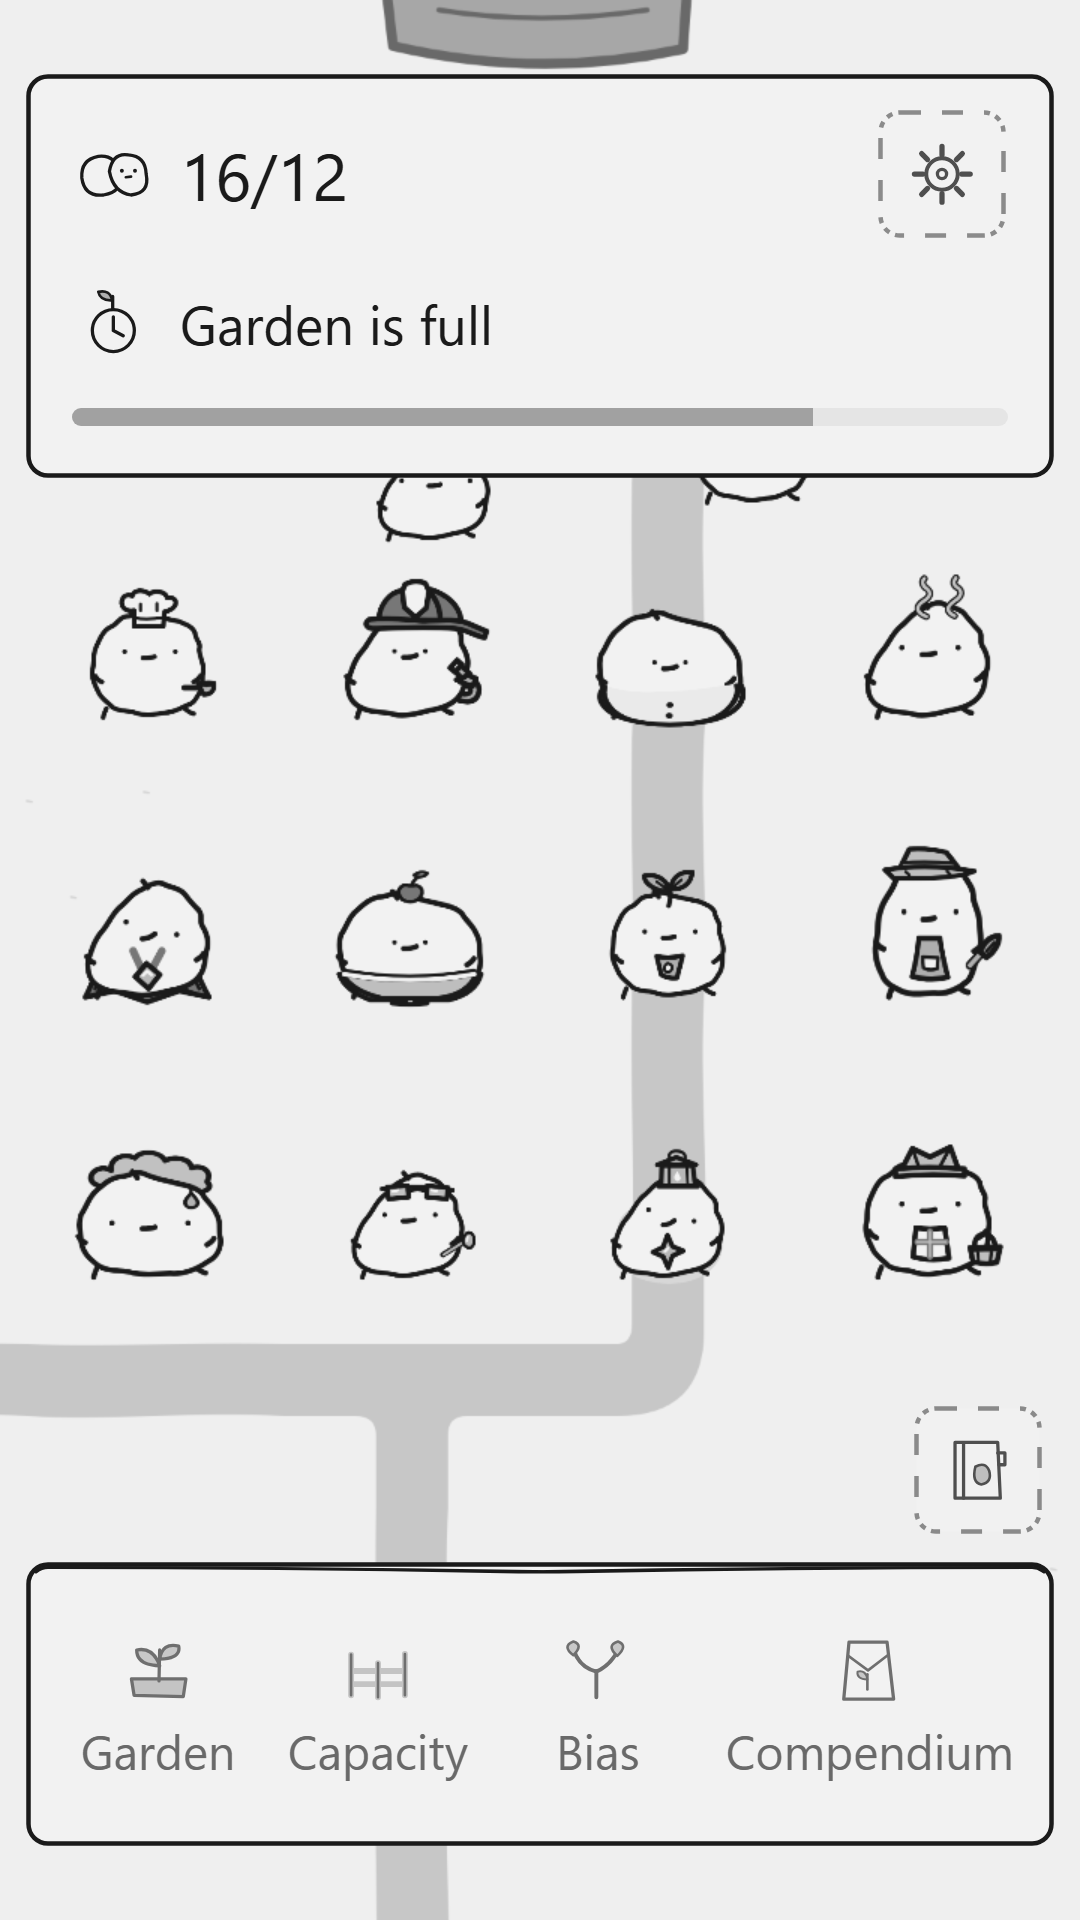
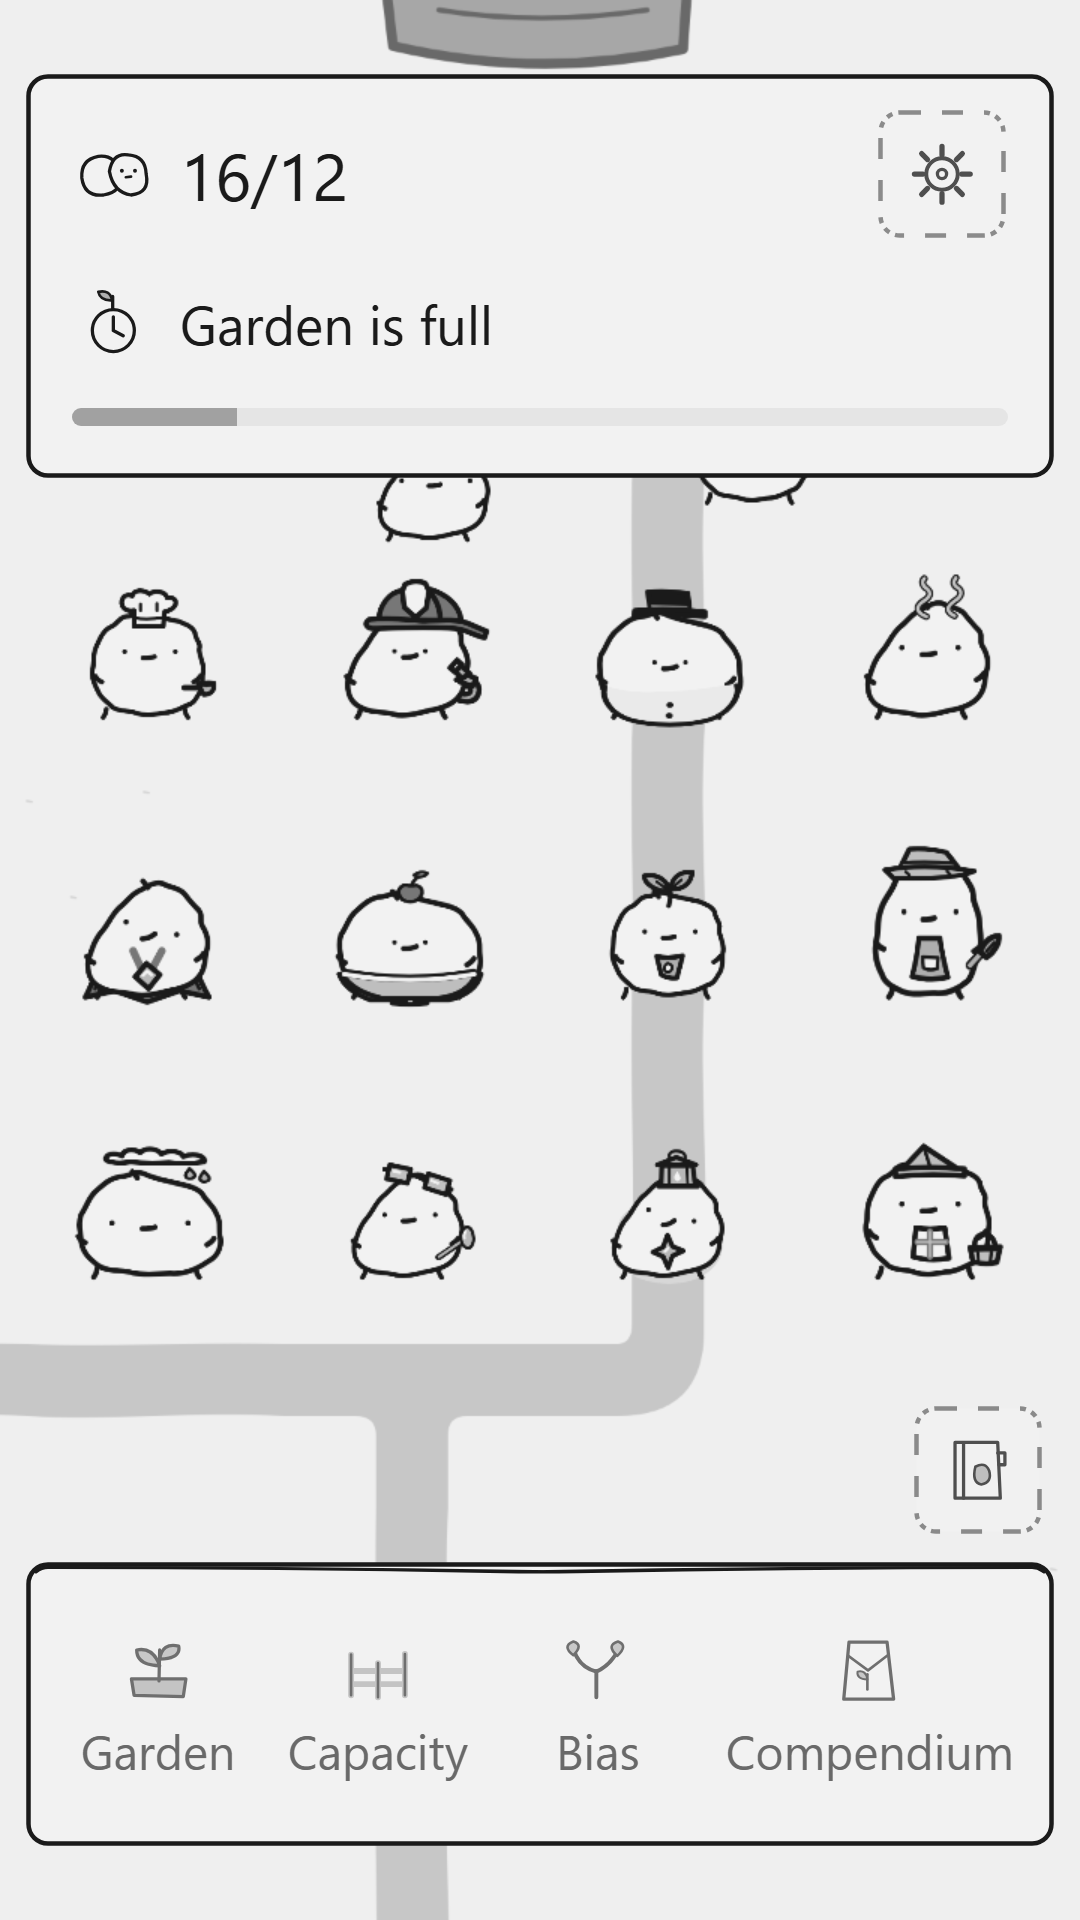
ASSET-PLAYABLE part A round 2: Snowman top hat, floating Raincloud, Picnic and Glassblower fixes
Answers Claude's PR #21 review: Snowman gets a coal-black top hat (its
rear component now follows head_top); Raincloud is a lighter cloud
floating above the head with rain falling from it; Picnic's hat has one
peak; Glassblower's goggles sit higher on a diagonal with a larger pipe
and bulb. Allocation and lifetime bounds unchanged.

diff --git a/docs/ASSETS.md b/docs/ASSETS.md
@@ -28,16 +28,16 @@ The component names in this table are filename part suffixes. `head` attaches to
 | snow / Snow Kid | 1 / spawn | Knitted beanie and trailing scarf, icy blue | none | beanie (head), scarf (torso) | final: larger pom, tall crown, ribbed cuff and short scarf fringe |
 | chef / Chef Kid | 2 / R2 | Cook-reference hat and small pan | none | hat (head), pan (hand) | final: puffed toque, cuff folds, cupped pan |
 | firefighter / Firefighter Kid | 2 / R1 | Red raised-shield helmet, compact hose/nozzle | hose | helmet (head), nozzle (hand) | final: approved costume; nozzle drawing 6 px right for seated Wide/Bean clearance |
-| snowman / Snowman Kid | 2 / R3 | Rounded lower snow suit, tiny coal buttons | snowball | buttons + lower snow suit (torso, one existing slot) | final: bulbous snow silhouette, no dark plate-like upper rim; face visible |
+| snowman / Snowman Kid | 2 / R3 | Coal-black top hat, pale lower snow suit and coal buttons | top hat (head; legacy `back_snowball` ID) | buttons + lower snow suit (torso, one existing slot) | final, round 2: visible brim above the crown distinguishes it from Sundae in grayscale; no nose |
 | steam / Steam Kid | 2 / R4 | Two pale curling vapour strokes | none | vapour (head) | final: unequal curls with ink border; distinct from hood/FX |
 | hero / Hero Kid | 3 / R5 | Short cape, oversized rescue medal | cape | medal (torso) | final: flared cape, broad ribbon, diamond medal |
 | sundae / Sundae Kid | 3 / R6 | Shallow dessert bowl, cherry | bowl | cherry (head), rim + cup/foot (torso, one existing slot) | final: visible curved bowl/short foot, cream lip, outlined cherry |
 | sprout / Sprout Kid | 2 / R7, proposed | Unequal leaf pair and tiny seed bib | none | leaves (head), bib (torso) | final: asymmetric leaves, seed emblem on bib |
 | gardener / Gardener Kid | 3 / R8, proposed | Crooked straw hat, apron, small trowel | none | hat (head), apron (torso), trowel (hand) | final: hatband/straw ticks, pocket apron, pointed trowel |
-| raincloud / Raincloud Kid | 3 / R9, proposed | Low scalloped cloud, one dangling raindrop | cloud | drop (head) | final: broad unequal lobes, distinct dangling drop; no rain particle field |
-| glassblower / Glassblower Kid | 3 / R10, proposed | Tilted safety goggles above eyes, blowpipe with amber bulb | none | goggles (head), pipe (hand) | final: lens rims/highlights, ink-edged pipe and bulb; alpha clearance checked |
+| raincloud / Raincloud Kid | 3 / R9, proposed | White scalloped cloud floating above the head, two falling drops | cloud | drops (head, existing `front_drop` slot) | final, round 2: cloud/body gap; both drops above and clear of body/face; no rain particle field |
+| glassblower / Glassblower Kid | 3 / R10, proposed | Diagonal safety goggles pushed onto crown, blowpipe with larger amber bulb | none | goggles (head), pipe (hand) | final, round 2: raised tilted lenses, longer pipe and taller bulb within existing hand reserve; alpha clearance checked |
 | lantern / Lantern Kid | 4 / R11, proposed | Small amber lantern cap, star apron, glow behind | glow | cap (head), star (torso) | final: loop/roof/frame/flame cap, four-point star, flat glow within boundsPx |
-| picnic / Picnic Kid | 4 / R12, proposed | Folded picnic hat, gingham bib, tiny basket | none | hat (head), bib (torso), basket (hand) | final: folded cap/cuff, broad gingham cross, handle/rim/weave ticks |
+| picnic / Picnic Kid | 4 / R12, proposed | Single-peak folded picnic hat, gingham bib, tiny basket | none | hat (head), bib (torso), basket (hand) | final, round 2: off-centre paper fold replaces two ear-like peaks; cuff, bib and basket retained |
 
 Totals: 16 types, 7 back components, 26 front components. Worst costume uses five sprites including body/face (Firefighter, Sundae, Gardener, Lantern or Picnic). Plain uses only body+face. Body/face/pose variation adds no per-type textures. Accent palettes follow themes but silhouette identifies type without hue.
 
@@ -64,7 +64,7 @@ Every result tier strictly exceeds both parents; all parents/results are constru
 
 ## Part A placeholder replacement owned by ChatGPT
 
-ASSET-PLAYABLE Part A replaces the editable SVG costume sources in place for **all 12 former placeholder types**: snow, chef, snowman, steam, hero, sundae, sprout, gardener, raincloud, glassblower, lantern, picnic. The exact allocation is retained (22 front +5 back for these 12), with all costume/component statuses `final`. Plain/Fire/Water/Firefighter also become `final` following the owner's style approval, D-045 audit and fit checks. Snowman's buttons file now contains the front of the lower snow suit too; Sundae's rim file contains the visible lip/cup/foot. This fixes back-layer occlusion without changing a component split, filename, pivot, fit, layer or boundsPx. Reuse delivered body/face/rig; no flattened per-type PNG. Claude reviews the final drawings before merge.
+ASSET-PLAYABLE Part A replaces the editable SVG costume sources in place for **all 12 former placeholder types**: snow, chef, snowman, steam, hero, sundae, sprout, gardener, raincloud, glassblower, lantern, picnic. The exact allocation is retained (22 front +5 back for these 12), with all costume/component statuses `final`. Plain/Fire/Water/Firefighter also become `final` following the owner's style approval, D-045 audit and fit checks. Snowman's buttons file contains the visible lower snow suit; Sundae's rim file contains the lip/cup/foot. Round 2 reuses Snowman's rear `kid_snowman_back_snowball` ID for a top hat: its follower changes from torso to head_top, pivot from [128,166] to [128,55], and fits to the established headwear fits. This justified exception prevents a seated torso transform from sinking/compressing the hat behind the head. All other followers/pivots/fits, every layer, filename, allocation, frame/clip/lifetime boundsPx and motion field remain unchanged. Reuse delivered body/face/rig; no flattened per-type PNG. Claude reviews the final drawings before merge.
 
 Future placeholders use minimal hand-authored SVGs: one clear silhouette per hat/prop, flat accent, same ink/fill, no baked text, same pivots/fit/boundsPx and dimensions as final components. Deliver under normal filenames with sidecar `status: placeholder`; replace sources in place when ready. Production PNG allocation is the same slot, not a second retained placeholder texture. Preserve source history in git/provenance. `placeholder`, `style_sample`, `final` remain explicit per-costume statuses. Part A's completion does not deliver Part B's deferred poses/clips/FX/landmarks/font. The rig retains its root slice markers and all deferred fields; individual completed sources are final.
 

diff --git a/docs/ART_AUDIO_PLAN.md b/docs/ART_AUDIO_PLAN.md
@@ -144,7 +144,7 @@ Manual review still judges reference character, bigger Fire, face readability, c
 
 ## Delivery and gates
 
-Claude accepted technical fit, including his silhouette-box revision; the owner approved gate 2 on 2026-10-02 (D-044 handoff). ASSET-PLAYABLE Part A replaces the 27 placeholder components in place, removes Dreamy's extra strokes and promotes delivered Plain/Fire/Water/Firefighter/body/face sources to final. No component allocations, pivots, fits, bounds or clips changed. Snowman's front buttons slot now also draws the visible lower snow suit; Sundae's front rim slot draws the lip/cup/foot so the back artwork is not hidden by the body. Firefighter's nozzle artwork moves 6 source px right inside its existing slot to clear seated Wide on Bean. See `.codex-out/asset-playable-a-notes.md` for checks and scale concerns. Part B's poses, event clips, FX, landmarks and bundled font remain untouched. The rig's root `style_sample` / `sample_slice` delivery markers remain historical scope markers; completed body/frame/face/costume/component statuses are `final`. Claude reviews Part A and renders true game-size captures before merge. Gate 3 remains first playable on the owner's phone; gate 4 remains MVP before extra content. Preserve provenance for every source/export, references/tool/version/licence/revision.
+Claude accepted technical fit, including his silhouette-box revision; the owner approved gate 2 on 2026-10-02 (D-044 handoff). ASSET-PLAYABLE Part A replaces the 27 placeholder components in place, removes Dreamy's extra strokes and promotes delivered Plain/Fire/Water/Firefighter/body/face sources to final. Round 2 addresses Claude's four art review points: Snowman gains a coal-black top hat, Raincloud a separated white cloud with rain above the face, Picnic one paper peak, and Glassblower raised diagonal goggles and a larger hand prop. Snowman's existing rear component now carries the hat and follows head_top at [128,55] with the established headwear fits, so it survives sitting without torso compression/occlusion. This is the only attachment/pivot/fit exception; allocation, layer order, filenames, all bounds and clips stay unchanged. Snowman's front buttons slot still draws the lower snow suit; Sundae's front rim slot draws the lip/cup/foot. Firefighter's nozzle artwork retains its 6 source px shift to clear seated Wide on Bean. See `.codex-out/asset-playable-a-notes.md` for checks, game-size/grayscale judgments and scale concerns. Part B's poses, event clips, FX, landmarks and bundled font remain untouched. The rig's root `style_sample` / `sample_slice` delivery markers remain historical scope markers; completed body/frame/face/costume/component statuses are `final`. Claude reviews Part A before merge. Gate 3 remains first playable on the owner's phone; gate 4 remains MVP before extra content. Preserve provenance for every source/export, references/tool/version/licence/revision.
 
 ## Audio production and handoff
 

diff --git a/assets/PROVENANCE.md b/assets/PROVENANCE.md
@@ -2,6 +2,12 @@
 
 ## Current kid art: ASSET-PLAYABLE Part A (2026-10-02)
 
+Current rig revision **asset-playable-a-2**, ChatGPT/Codex, Part A round 2. Six original SVG sources supersede their round-1 drawings: `kid_snowman_back_snowball` (legacy ID now carries the rear top hat), `kid_raincloud_back_cloud`, `kid_raincloud_front_drop`, `kid_picnic_front_hat`, `kid_glassblower_front_goggles`, `kid_glassblower_front_pipe`. Tools: hand-authored SVG paths/JSON through `.codex-out/author-asset-playable-a-round2.mjs`, Node.js; licence: original work for Potato Kid. Inspected all 22 references in the contact sheet and Claude's e953dc8 colour/grayscale/crowd engine captures before editing. No image generation, tracing, external images or baked text. Source dimensions/statuses/allocation stay the same. Snowman's rear component alone changes attachment/pivot/fits to existing headwear values, justified by seated hat occlusion; all lifetime boxes and motion remain unchanged. The front snow suit retains round-1 artwork. Other delivered sources retain their individual earlier revisions.
+
+The current inventory preserves pre-Part-A hashes and records `round1Sha256` for these six changed sources alongside their current hashes. Runtime PNGs/sidecar and real-engine review captures under `art/previews/ingame/` are regenerated for round 2. Independent alpha/vector evidence and game-size colour/grayscale/stand/seated scratch sheets are regenerated under `.codex-out/`. Claude's critical review and physical-device acceptance remain pending. See the appended Round 2 section in `.codex-out/asset-playable-a-notes.md`.
+
+### Part A round 1 record
+
 Revision **asset-playable-a-1**, author ChatGPT/Codex in the project ChatGPT role. Original hand-authored SVG/JSON, written with Node.js using `.codex-out/author-asset-playable-a.mjs`; no image generation, external artwork, fonts, tracing or embedded reference images. Licence: original work for Potato Kid. Inspected all 22 supplied references through `.codex-out/reference-contact-sheet.png` and the approved engine sample sheets. Plain/cook/snow references inform the same sparse face, costume language and outline; all new details are original.
 
 This entry supersedes the maturity labels in the historical inventories below **only for the 61 delivered v2 kid SVGs**: 16 existing body poses, 12 face states and 33 costume components. These are `final` in the authored sidecar, pending Claude's review. Historical r2 sources and map/UI are not promoted. The root rig retains its slice marker and explicit deferred fields; Part B is not delivered.

diff --git a/docs/DECISIONS.md b/docs/DECISIONS.md
@@ -59,6 +59,10 @@ Owner gate-2 direction D-036..D-042 is preserved in `.codex-out/decisions-gate2.
 | --- | --- | --- | --- |
 | D-043 | Agreed (Claude + ChatGPT) | Kids reserve a lifetime axis-aligned silhouette box in absolute source-canvas `boundsPx`; clips declare `boundsPxByBody`. Contact uses box gap with interval overlap on the other axis. Scenery retains ground reserve circles plus authored silhouette boxes. No-overlap applies during interpolation and dragging as well as simulation. | Claude counterproposal in `.codex-out/claude-v2-spec-review.md`, accepted in `.codex-out/v2-review-response.md`; avoids excessive circle spacing while containing the full visible rig. Garden roof needs its own silhouette envelope above the ground circle. |
 
+## ASSET-PLAYABLE Part A round 2 art revision (ChatGPT, 2026-10-02; Claude review pending)
+
+In response to PR #21's four art-review items, Snowman gains a coal-black top hat; Raincloud becomes a separate near-white cloud with rain above the face; Picnic uses one paper peak; Glassblower wears raised diagonal goggles with a larger pipe/bulb. These are original costume revisions within D-044/D-045/D-046, with no Part B delivery or new anatomy. Snowman's existing rear `kid_snowman_back_snowball` component alone changes from torso to head_top, using the existing headwear pivot/fits: a torso follower would compress and hide the hat while sitting. Reusing the component keeps the same 33-component allocation and every lifetime box. All other pivots/fits/layers/motion fields remain unchanged. Full rationale and colour/grayscale game-size review: `.codex-out/asset-playable-a-notes.md`, Round 2. This records ChatGPT's art choice for review, not a new owner approval or engineering format decision.
+
 ## Open questions
 
 | ID | For | Question |
